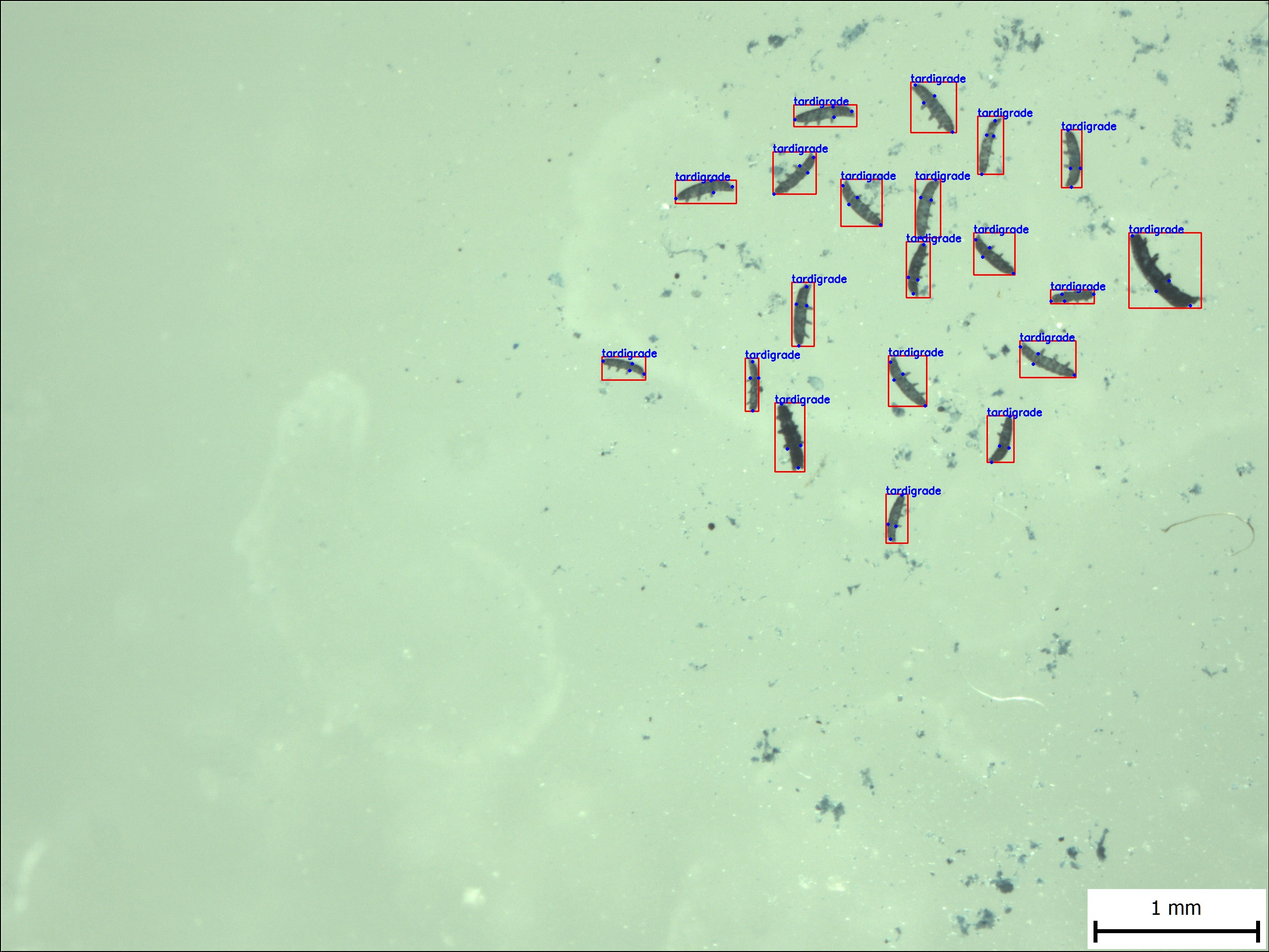
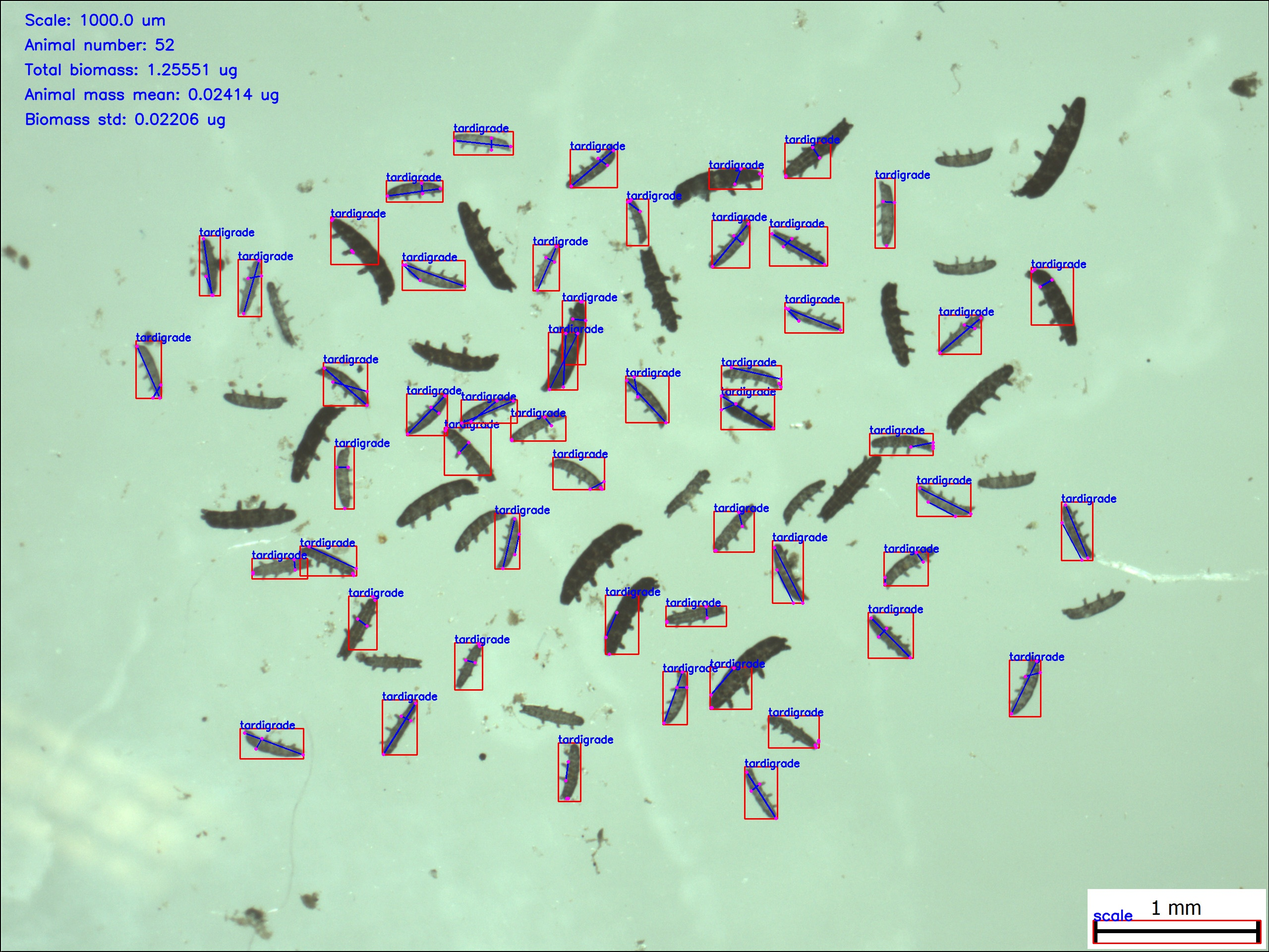
estimate_biomass.py corrected, training parameters changed, learning scheduler created, prediction function separated

diff --git a/src/estimate_biomass.py b/src/estimate_biomass.py
@@ -5,10 +5,10 @@ import cv2
 import numpy as np
 import torch
 
+import keypoints_detector.config as cfg
+from keypoints_detector.model import keypoint_detector
+from keypoints_detector.predict import predict
 from scale_detector.scale_detector import read_scale
-# from keypoints_detector.model import keypoint_detector
-# from keypoints_detector.config import INPUT_IMAGE_SIZE
-# from utils import prepare_segmented_img, prepare_contours, resize_pad
 
 
 def parse_args():
@@ -46,33 +46,45 @@ def simple_segmenter(img):
     return cnts, bboxes_fit, bboxes, thresh
 
 
-def calculate_mass(points, scale, img_ratio=1, echiniscus=False):
-    # If the mass of the species Echiniscus is estimated, use different equation
-    # TODO: pass nn input image scale factors and multiply with length and width
-    head, ass, right, left = points
-    length_pix = np.linalg.norm(head - ass) * img_ratio
-    width_pix = np.linalg.norm(right - left) * img_ratio
-    scale_ratio = scale["pix"] * scale["um"]
-    length = scale_ratio / length_pix
-    width = scale_ratio / width_pix
+def calculate_mass(predicted, scale):
+    scale_ratio = scale["um"] / scale["pix"]
+    masses = np.array([])
 
-    R = length / width
-    density = 1.04
+    for i, points in enumerate(predicted["keypoints"]):
+        points = points.astype(np.uint64)
+        head, ass, right, left = points
+        length = np.sqrt(np.sum((head - ass) ** 2)) * scale_ratio
+        width = np.sqrt(np.sum((length - right) ** 2)) * scale_ratio
 
-    if echiniscus:
-        mass = (1 / 12) * length * np.pi * (length / R) ** 0.5 * density * 10 ** -6  # [ug]
-    else:
-        mass = length * np.pi * (length / (2 * R)) ** 0.5 * density * 10 ** -6  # [ug]
+        class_name = cfg.INSTANCE_CATEGORY_NAMES[predicted["labels"][i]]
+        mass = 0.0
+        R = 0.0
 
-    print(f"length / width: {R}, mass: {mass}")
-    return mass
+        if length and width != np.nan:
+            R = length / width
+            density = 1.04
+
+            # If the mass of the species Echiniscus is estimated, use different equation
+            if class_name == 'echiniscus':
+                mass = (1 / 12) * length * np.pi * (length / R) ** 0.5 * density * 10 ** -6  # [ug]
+            else:
+                mass = length * np.pi * (length / (2 * R)) ** 0.5 * density * 10 ** -6  # [ug]
+
+        # print(f"length / width: {R}, mass: {mass}")
+        masses = np.append(masses, mass)
+
+    total_mass = np.sum(masses)
+    mass_std = np.std(masses)
+    mass_mean = np.mean(masses)
+
+    return total_mass, mass_std, mass_mean
 
 
 def main(args):
     images = args.input_dir.glob("*.jpg")
 
-    # model = keypoint_detector()
-    # model.load_state_dict(torch.load("./keypoints_detector/checkpoints/keypoints_detector.pth"))
+    model = keypoint_detector()
+    model.load_state_dict(torch.load("keypoints_detector/checkpoints/keypoints_detector.pth"))
 
     for img_path in images:
         print(f"image path: {img_path}")
@@ -80,32 +92,29 @@ def main(args):
         img = cv2.imread(str(img_path), 1)
         cnts, bboxes_fit, bboxes, thresh = simple_segmenter(img)
 
-        first = True
-        image_biomass = 0
-        image_scale = {'pix': 1, 'um': 1}
+        image_scale, img = read_scale(img, bboxes[0], device="cpu")
+        print(f"Image scale: {image_scale}")
 
-        for c, rect_tilted, rect in zip(cnts, bboxes_fit, bboxes):
-            if first:
-                image_scale = read_scale(img, rect, device="cpu")
-                print(f"Image scale: {image_scale}")
-                first = False
-                continue
+        predicted = predict(model, img, device=cfg.DEVICE)
+        biomass, biomass_std, biomass_mean = calculate_mass(predicted, scale=image_scale)
 
-            # cnt_normalized, cnt_translated, center, shape_translated = prepare_contours(rect_tilted, rect, c)
-            # label_image = prepare_segmented_img(img, cnt_translated, shape_translated, rect)
-            # ratio, label_image = resize_pad(label_image, img_size=None, new_size=INPUT_IMAGE_SIZE)
-            # input_tensor = torch.from_numpy(label_image.astype(np.float32))
-            # input_tensor = input_tensor.view([1, 3, INPUT_IMAGE_SIZE, INPUT_IMAGE_SIZE])
-            #
-            # with torch.no_grad():
-            #     predicted = model(input_tensor).cpu()
-            #     predicted = predicted.view([4, 2])
-            #
-            #     mass = calculate_mass(predicted.numpy(), img_ratio=INPUT_IMAGE_SIZE / ratio, scale=image_scale)
-            #     image_biomass += mass
+        img = predicted["image"]
 
-        print(f"Image total mass: {image_biomass} ug\n")
-        cv2.imshow('segmented', cv2.resize(thresh, (0, 0), fx=0.5, fy=0.5))
+        print(f"Image total mass: {biomass} ug\n")
+        print("-" * 50)
+
+        info_dict = {"scale": (f"Scale: {image_scale['um']} um", (50, 50)),
+                     "number": (f"Animal number: {predicted['bboxes'].shape[0]}", (50, 100)),
+                     "mass": (f"Total biomass: {round(biomass, 5)} ug", (50, 150)),
+                     "mean": (f"Animal mass mean: {round(biomass_mean, 5)} ug", (50, 200)),
+                     "std": (f"Biomass std: {round(biomass_std, 5)} ug", (50, 250))}
+
+        for text, position in info_dict.values():
+            img = cv2.putText(img, text, position,
+                              cv2.FONT_HERSHEY_SIMPLEX, 1, (255, 0, 0), 2, cv2.LINE_AA)
+
+        cv2.imwrite("../images/keypoint_rcnn_detection.jpg", img)
+        cv2.imshow('predicted', cv2.resize(img, (0, 0), fx=0.5, fy=0.5))
         cv2.waitKey(1000)
 
 

diff --git a/src/keypoints_detector/train.py b/src/keypoints_detector/train.py
@@ -1,9 +1,9 @@
+import random
 from pathlib import Path
 
-import cv2
 import numpy as np
 import torch
-import torchvision.transforms.functional as F
+import torch.optim.lr_scheduler as lr_scheduler
 
 import config as cfg
 from dataset import load_data
@@ -11,17 +11,33 @@ from model import keypoint_detector
 
 import matplotlib.pyplot as plt  # TODO: matplotlib must be imported after torchvision model to avoid SIGSEGV error!
 
+seed = 123
+torch.manual_seed(seed)
+torch.cuda.manual_seed(seed)
+torch.cuda.manual_seed_all(seed)
+np.random.seed(seed)
+random.seed(seed)
+torch.backends.cudnn.benchmark = False
+torch.backends.cudnn.deterministic = True
+
+
+def validate():
+    return
+
 
 def train(device, checkpoint_save_interval=True, save_plots=True):
-    model = keypoint_detector()
+    model = keypoint_detector(cfg.CLASSES_NUMBER, cfg.KEYPOINTS)
     model.to(device)
     optimizer = torch.optim.SGD(model.parameters(),
                                 lr=cfg.LEARNING_RATE,
                                 momentum=cfg.MOMENTUM,
                                 weight_decay=cfg.WEIGHT_DECAY)
 
+    scheduler = lr_scheduler.MultiStepLR(optimizer, milestones=cfg.MILESTONES, gamma=cfg.GAMMA)
+
     dataloader = load_data(images_dir="../images",
-                           annotation_file="../Tardigrada-5.json")
+                           annotation_file="../Tardigrada-5.json",
+                           transform=True)
 
     losses = {"loss_total": [],
               "loss_classifier": [],
@@ -41,6 +57,10 @@ def train(device, checkpoint_save_interval=True, save_plots=True):
             optimizer.zero_grad()
             loss_total.backward()
             optimizer.step()
+
+            # val_loss = validate()
+            # TODO: Create validate function
+            scheduler.step()
 
             for loss_key in loss_dict.keys():
                 losses[loss_key].append(loss_dict[loss_key].item())
@@ -75,46 +95,5 @@ def train(device, checkpoint_save_interval=True, save_plots=True):
     return model
 
 
-def predict(img, device):
-    model = keypoint_detector()
-    model.load_state_dict(torch.load("checkpoints/keypoints_detector.pth"))
-    model.eval().to(device)
-
-    image_tensor = F.to_tensor(img).to(device)
-    predicted = model([image_tensor])[0]
-
-    bboxes = predicted["boxes"].cpu().detach().numpy()
-    labels = predicted["labels"].cpu().detach().numpy().astype(np.uint8)
-    scores = predicted["scores"].cpu().detach().numpy()
-    keypoints = predicted['keypoints'].cpu().detach().numpy()
-
-    for i in range(len(bboxes)):
-        bbox = bboxes[i]
-        pt1 = tuple(bbox[:2].astype(np.uint16))
-        pt2 = tuple(bbox[2:].astype(np.uint16))
-
-        img = cv2.rectangle(img, pt1, pt2, (0, 0, 255), 2)
-
-        position = (int(bboxes[i][0]), int(bboxes[i][1]))
-        img = cv2.putText(img, cfg.INSTANCE_CATEGORY_NAMES[labels[i]],
-                          position, cv2.FONT_HERSHEY_SIMPLEX, fontScale=0.7, color=(255, 0, 0), thickness=2)
-
-        for j in range(len(keypoints[i])):
-            img = cv2.circle(img, center=(round(keypoints[i][j][0]), round(keypoints[i][j][1])),
-                             radius=2, color=(255, 0, 0), thickness=2)
-
-    cv2.imwrite("keypoint_rcnn_prediction.jpg", img)
-
-    plt.figure(figsize=(20, 30))
-    plt.imshow(img)
-    plt.xticks([])
-    plt.yticks([])
-    plt.show()
-
-
 if __name__ == '__main__':
-    img = cv2.imread("../images/krio5_OM_1.5_5.jpg")
-    img = cv2.cvtColor(img, cv2.COLOR_BGR2RGB)
-
     train(cfg.DEVICE, checkpoint_save_interval=False)
-    predict(img, cfg.DEVICE)

diff --git a/src/keypoints_detector/predict.py b/src/keypoints_detector/predict.py
@@ -1,0 +1,56 @@
+import cv2
+import keypoints_detector.config as cfg
+import matplotlib.pyplot as plt
+import numpy as np
+import torch
+import torchvision.transforms.functional as F
+from keypoints_detector.model import keypoint_detector
+
+
+def predict(model, img, device):
+    model.eval().to(device)
+
+    image_tensor = F.to_tensor(img).to(device)
+    predicted = model([image_tensor])[0]
+
+    bboxes = predicted["boxes"].cpu().detach().numpy()
+    labels = predicted["labels"].cpu().detach().numpy().astype(np.uint8)
+    scores = predicted["scores"].cpu().detach().numpy()
+    keypoints = predicted['keypoints'].cpu().detach().numpy()
+
+    grouped_keypoints = np.round(keypoints, 0)[:, :, :2]
+
+    for i in range(len(bboxes)):
+        bbox = bboxes[i]
+        pt1 = tuple(bbox[:2].astype(np.uint16))
+        pt2 = tuple(bbox[2:].astype(np.uint16))
+
+        img = cv2.rectangle(img.copy(), pt1, pt2, (0, 0, 255), 2)
+
+        position = (int(bboxes[i][0]), int(bboxes[i][1]))
+        img = cv2.putText(img, cfg.INSTANCE_CATEGORY_NAMES[labels[i]],
+                          position, cv2.FONT_HERSHEY_SIMPLEX, fontScale=0.7, color=(255, 0, 0), thickness=2)
+
+        for kpt1, kpt2 in ((0, 1), (2, 3)):
+            img = cv2.line(img, tuple(grouped_keypoints[i][kpt1]), tuple(grouped_keypoints[i][kpt2]),
+                           color=(255, 0, 0), thickness=2)
+
+        for j in range(len(keypoints[i])):
+            img = cv2.circle(img, center=(round(keypoints[i][j][0]), round(keypoints[i][j][1])),
+                             radius=2, color=(255, 0, 255), thickness=2)
+
+    output = {"image": img, "keypoints": grouped_keypoints, "bboxes": bboxes, "labels": labels, "scores": scores}
+    return output
+
+
+def show_prediction(img):
+    model = keypoint_detector()
+    model.load_state_dict(torch.load("checkpoints/keypoints_detector2000.pth"))
+    prediction = predict(model, img, cfg.DEVICE)
+    cv2.imwrite("keypoint_rcnn_detection.jpg", prediction["image"])
+
+    plt.figure(figsize=(20, 30))
+    plt.imshow(prediction["image"])
+    plt.xticks([])
+    plt.yticks([])
+    plt.show()

diff --git a/src/keypoints_detector/dataset.py b/src/keypoints_detector/dataset.py
@@ -87,11 +87,11 @@ class KeypointsDataset(Dataset):
                    alb.RGBShift(p=0.7)]
 
         transform = alb.Compose([
-            alb.Affine(p=0.9),
+            # alb.Affine(p=0.9),
             alb.ColorJitter(brightness=0.2, contrast=0.2, saturation=0.2, hue=0.2, always_apply=False, p=0.5),
             alb.OneOf(one_of, p=0.8),
             alb.OneOf(one_of, p=0.8),
-            alb.OneOf(one_of2, p=0.5),
+            # alb.OneOf(one_of2, p=0.5),
             # alb.normalize(mean=[], std=[], max_pixel_value=255)
             ],
             keypoint_params=alb.KeypointParams(format='xy', remove_invisible=False),
@@ -130,7 +130,7 @@ if __name__ == '__main__':
                 img = cv2.rectangle(img.copy(), pt1, pt2, (255, 0, 0), 2)
                 for keypoint in obj_keypoints:
                     center = (int(round(keypoint[0].item())), int(round(keypoint[1].item())))
-                    img = cv2.circle(img.copy(), center, 5, (0, 0, 255), 5)
+                    img = cv2.circle(img.copy(), center, 2, (0, 0, 255), 5)
 
             cv2.imshow("img", cv2.resize(img, (0, 0), fx=0.5, fy=0.5))
             cv2.waitKey(1500)

diff --git a/src/scale_detector/scale_detector.py b/src/scale_detector/scale_detector.py
@@ -1,4 +1,5 @@
 from easyocr import Reader
+import cv2
 
 
 def change_to_um(text):
@@ -19,10 +20,10 @@ def read_scale(img, rect, device="cpu"):
     reader = Reader(['en'], gpu=True if device == "gpu" else False)
 
     x, y, w, h = rect
-    # img = cv2.rectangle(img, (x, y), (x + w, y + h), (0, 255, 0), 2)
     result = reader.readtext(img,
                              slope_ths=0.01,
                              width_ths=0.7)
+
     text_threshold = 0.8
     scale_center = (round(x + w/2), round(y + h/2))
 
@@ -36,5 +37,9 @@ def read_scale(img, rect, device="cpu"):
     result = sorted(result, key=calc_dist, reverse=True)[0]
     scale_value = change_to_um(result[1])
 
+    img = cv2.rectangle(img.copy(), (x, y), (x + w, y + h), (0, 0, 255), 2)
+    img = cv2.putText(img, 'scale', (x, y), cv2.FONT_HERSHEY_SIMPLEX,
+                      1, (255, 0, 0), 2, cv2.LINE_AA)
+
     output = {"pix": w, "um": scale_value}
-    return output
+    return output, img

diff --git a/src/keypoints_detector/model.py b/src/keypoints_detector/model.py
@@ -1,13 +1,14 @@
-import torch
 from torchvision.models.detection import keypointrcnn_resnet50_fpn
 
-import config as cfg
 
-
-def keypoint_detector():
-    torch.manual_seed(1)
-    model = keypointrcnn_resnet50_fpn(pretrained=False, pretrained_backbone=True,
-                                      num_classes=cfg.CLASSES_NUMBER, num_keypoints=cfg.KEYPOINTS)
+def keypoint_detector(num_classes=3, num_keypoints=4):
+    model = keypointrcnn_resnet50_fpn(pretrained=False,
+                                      pretrained_backbone=True,
+                                      num_classes=num_classes,
+                                      num_keypoints=num_keypoints,
+                                      box_nms_thresh=0.4,
+                                      rpn_score_thresh=0.90,
+                                      box_score_thresh=0.90)
 
     return model
 

diff --git a/src/keypoints_detector/config.py b/src/keypoints_detector/config.py
@@ -1,11 +1,15 @@
 import torch
 
 DEVICE = "cuda" if torch.cuda.is_available() else "cpu"
+
+# TRAINING HYPER-PARAMETERS
 LOSS_FUNCTION = torch.nn.MSELoss()
-LEARNING_RATE = 0.001
-MOMENTUM = 0.9
-WEIGHT_DECAY = 0.0005
-EPOCHS = 10
+LEARNING_RATE = 0.01
+MOMENTUM = 0.05
+WEIGHT_DECAY = 0.00005
+GAMMA = 0.1
+MILESTONES = [1000, 1100]
+EPOCHS = 1200
 BATCH_SIZE = 1
 TEST_RATIO = 0
 CHECKPOINT_SAVE_INTERVAL = 10
@@ -13,3 +17,8 @@ NUM_WORKERS = 0
 INSTANCE_CATEGORY_NAMES = ['__background__', 'tardigrade', 'echiniscus']
 CLASSES_NUMBER = len(INSTANCE_CATEGORY_NAMES)
 KEYPOINTS = 4
+
+# INFERENCE HYPER-PARAMETERS
+BOX_NMS_THRESH = 0.40
+RPN_SCORE_THRESH = 0.90
+BOX_SCORE_THRESH = 0.90
